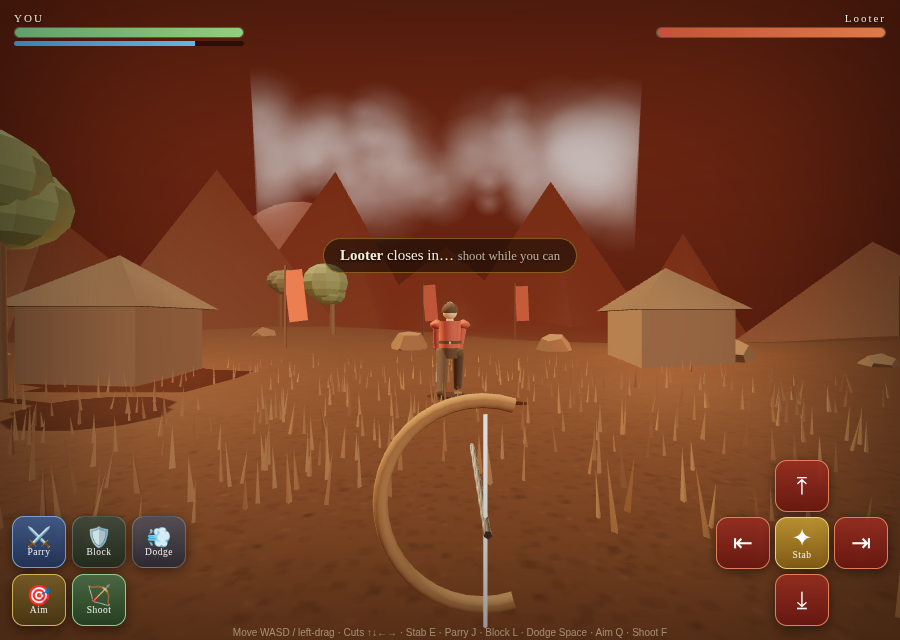
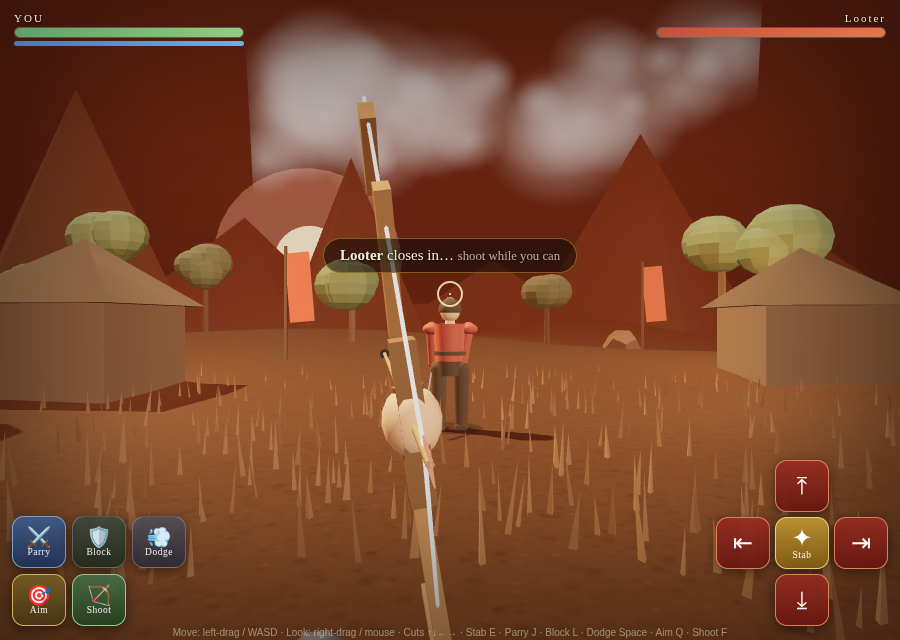
Warrior 3D: proper first-person bow + look controls; serialize Pages deploy
- BOW rebuilt as a real first-person archery view: a vertical bow held
  out in the (bladed) left hand, limbs curving forward, string + fletched
  arrow drawn back to the eye and sighted down the shaft at the target —
  instead of the small flat arc. Draws on Aim, looses on Shoot.
- LOOK controls restored and split from movement: LEFT half of the screen
  (or WASD) moves; RIGHT half drag (or mouse) changes your view direction,
  easing back toward your foe so you keep them framed. Answers 'how do you
  change direction of view'.
- CI: switch the Pages concurrency to cancel-in-progress:false so deploys
  QUEUE instead of colliding. Cancelling an in-flight deploy left GitHub's
  server-side deployment 'in progress' and made the next run 400; the last
  two deploys failed for exactly this reason. Serializing fixes it.

Browser smoke: move, aim(bow-draw)+reticle, right-drag look, and the full
attack set all drive to a clean finish with 0 JS errors.

diff --git a/dist/artifact.html b/dist/artifact.html
@@ -5251,7 +5251,7 @@ WARRIOR3D.startFight = function (opts) {
             <button class="w3-b down" data-a="cut_down" title="Rising cut">⤓</button>
           </div>
         </div>
-        <div class="w3-hint">Move WASD / left-drag · Cuts ↑↓←→ · Stab E · Parry J · Block L · Dodge Space · Aim Q · Shoot F</div>
+        <div class="w3-hint">Move: left-drag / WASD · Look: right-drag / mouse · Cuts ↑↓←→ · Stab E · Parry J · Block L · Dodge Space · Aim Q · Shoot F</div>
       </div>
     </div>`;
 
@@ -5562,16 +5562,36 @@ WARRIOR3D._viewmodel = function (player) {
   kg.position.set(0.26, -0.34, -0.72); kg.rotation.set(-0.78, 0.34, -0.12); g.add(kg);
   const arm = new THREE.Mesh(new THREE.CylinderGeometry(0.055, 0.065, 0.46, 8), cloth); arm.position.set(0.42, -0.66, -0.4); arm.rotation.set(-0.95, -0.25, 0.2); g.add(arm);
 
-  // bow (hidden until aim/shoot) — compact, held lower-centre
+  // bow (hidden until aim/shoot) — a proper vertical bow held out in the
+  // left hand, body bladed to the target; string+arrow drawn back to the eye.
   const bg = new THREE.Group();
-  const bow = new THREE.Mesh(new THREE.TorusGeometry(0.19, 0.014, 8, 24, Math.PI * 1.2), new THREE.MeshStandardMaterial({ color: 0x5a3a1e, roughness: 0.8 }));
-  bow.rotation.z = Math.PI * 0.4; bg.add(bow);
-  const strG = new THREE.Group(); bg.add(strG);
-  const str = new THREE.Mesh(new THREE.CylinderGeometry(0.0035, 0.0035, 0.36, 4), new THREE.MeshBasicMaterial({ color: 0xddddcc })); strG.add(str);
-  const nock = new THREE.Mesh(new THREE.CylinderGeometry(0.007, 0.007, 0.5, 5), steel); nock.rotation.x = Math.PI / 2; nock.position.z = -0.2; strG.add(nock);
-  bg.position.set(0.06, -0.34, -0.82); bg.visible = false; g.add(bg);
+  const bwood = new THREE.MeshStandardMaterial({ color: 0x6a4423, roughness: 0.7 });
+  const bwood2 = new THREE.MeshStandardMaterial({ color: 0x452c17, roughness: 0.7 });
+  const strMat = new THREE.MeshBasicMaterial({ color: 0xe8e4d0 });
+  const riser = new THREE.Mesh(new THREE.BoxGeometry(0.05, 0.32, 0.08), bwood2); bg.add(riser);
+  const bgrip = new THREE.Mesh(new THREE.CylinderGeometry(0.032, 0.032, 0.14, 8), bwood2); bg.add(bgrip);
+  // limbs curving forward, top & bottom
+  [[1, 0.3, 0.5, 0.34], [1, 0.56, 0.95, 0.22], [-1, 0.3, -0.5, 0.34], [-1, 0.56, -0.95, 0.22]].forEach(([s, y, rx, len]) => {
+    const lb = new THREE.Mesh(new THREE.BoxGeometry(0.032, len, 0.05), bwood);
+    lb.position.set(0, s * y, -0.06 - (Math.abs(rx) > 0.6 ? 0.14 : 0)); lb.rotation.x = rx; bg.add(lb);
+  });
+  const bhand = new THREE.Mesh(new THREE.SphereGeometry(0.06, 10, 8), skin); bhand.scale.set(1, 1.2, 1); bg.add(bhand);
+  // draw group: string + nocked arrow (slides back toward the eye when drawn)
+  const draw = new THREE.Group(); bg.add(draw);
+  const strand = (ax, ay, az) => { const a = new THREE.Vector3(ax, ay, az), b = new THREE.Vector3(0, 0, 0);
+    const m = new THREE.Mesh(new THREE.CylinderGeometry(0.004, 0.004, a.distanceTo(b), 4), strMat);
+    m.position.copy(a.clone().add(b).multiplyScalar(0.5)); m.lookAt(b); m.rotateX(Math.PI / 2); return m; };
+  draw.add(strand(0, 0.66, -0.34)); draw.add(strand(0, -0.66, -0.34));
+  const arrow = new THREE.Mesh(new THREE.CylinderGeometry(0.0075, 0.0075, 1.4, 5), new THREE.MeshStandardMaterial({ color: 0x7a5a2e, roughness: 0.8 }));
+  arrow.rotation.x = Math.PI / 2; arrow.position.set(0, 0, -0.62); draw.add(arrow);
+  const head = new THREE.Mesh(new THREE.ConeGeometry(0.02, 0.07, 6), steel); head.rotation.x = -Math.PI / 2; head.position.set(0, 0, -1.34); draw.add(head);
+  const fletch = new THREE.Mesh(new THREE.BoxGeometry(0.002, 0.055, 0.09), new THREE.MeshBasicMaterial({ color: 0xb43a2a })); fletch.position.set(0, 0, 0.06); draw.add(fletch);
+  // bow-arm reaching up from lower-left to the grip (suggests the bladed body)
+  const barm = new THREE.Mesh(new THREE.CylinderGeometry(0.05, 0.062, 0.62, 8), cloth); barm.position.set(-0.3, -0.52, 0.3); barm.rotation.set(-1.05, 0.35, -0.25); bg.add(barm);
+  bg.position.set(-0.06, -0.16, -0.92); bg.rotation.set(0.06, 0.16, 0.13); bg.scale.setScalar(0.82);
+  bg.visible = false; g.add(bg);
 
-  g.userData = { katana: kg, bow: bg, bowString: strG, arm, rest: { pos: kg.position.clone(), rot: kg.rotation.clone() } };
+  g.userData = { katana: kg, bow: bg, bowDraw: draw, arm, rest: { pos: kg.position.clone(), rot: kg.rotation.clone() } };
   return g;
 };
 
@@ -5795,8 +5815,9 @@ WARRIOR3D._updateViewmodel = function (E, dt) {
   const set = (px, py, pz, rx, ry, rz) => { kg.position.set(px, py, pz); kg.rotation.set(rx, ry, rz); };
 
   if (showBow) {
-    if (E.vmClip === "aim") { V.bowString.position.z = THREE.MathUtils.lerp(V.bowString.position.z, 0.16, dt * 10); }
-    else { const t = Math.min(1, E.vmT / 0.2); V.bowString.position.z = THREE.MathUtils.lerp(0.16, 0, t); if (t >= 1) WARRIOR3D._vm(E, E.aiming ? "aim" : "idle"); }
+    const d = V.bowDraw;
+    if (E.vmClip === "aim") { d.position.z = THREE.MathUtils.lerp(d.position.z, 0.24, dt * 9); }   // draw the string back
+    else { const t = Math.min(1, E.vmT / 0.16); d.position.z = THREE.MathUtils.lerp(0.24, 0, t); if (t >= 1) WARRIOR3D._vm(E, E.aiming ? "aim" : "idle"); }  // loose
     return;
   }
   const sw = WARRIOR3D.SWING[E.vmClip];
@@ -5884,20 +5905,30 @@ WARRIOR3D._prompt = function (E, html, cls) { const el = document.getElementById
 
 WARRIOR3D._bindControls = function (E) {
   const cv = E.renderer.domElement;
+  // Left half of the screen = MOVE stick; right half = LOOK (change view).
   const joyEl = document.getElementById("w3-joy"), knob = joyEl && joyEl.querySelector(".w3-joy-knob");
-  const R = 56;
-  const jStart = (x, y, id) => { E.joy.active = true; E.joy.id = id; E.joy.ox = x; E.joy.oy = y; E.joy.x = 0; E.joy.y = 0;
+  const R = 56, halfW = () => (E.mount.clientWidth || window.innerWidth) * 0.5;
+  const look = E.look = { active: false, id: null, lx: 0, ly: 0 };
+  const startMove = (x, y, id) => { E.joy.active = true; E.joy.id = id; E.joy.ox = x; E.joy.oy = y; E.joy.x = 0; E.joy.y = 0;
     if (joyEl) { joyEl.style.left = x + "px"; joyEl.style.top = y + "px"; joyEl.classList.add("on"); if (knob) knob.style.transform = "translate(-50%,-50%)"; } };
-  const jMove = (x, y) => { if (!E.joy.active) return; let dx = x - E.joy.ox, dy = y - E.joy.oy;
-    const d = Math.hypot(dx, dy); if (d > R) { dx *= R / d; dy *= R / d; }
+  const doMove = (x, y) => { let dx = x - E.joy.ox, dy = y - E.joy.oy; const d = Math.hypot(dx, dy); if (d > R) { dx *= R / d; dy *= R / d; }
     E.joy.x = dx / R; E.joy.y = -dy / R; if (knob) knob.style.transform = `translate(calc(-50% + ${dx}px), calc(-50% + ${dy}px))`; };
-  const jEnd = () => { E.joy.active = false; E.joy.x = 0; E.joy.y = 0; if (joyEl) joyEl.classList.remove("on"); };
-  cv.addEventListener("mousedown", e => jStart(e.clientX, e.clientY, "m"));
-  window.addEventListener("mousemove", e => jMove(e.clientX, e.clientY));
-  window.addEventListener("mouseup", jEnd);
-  cv.addEventListener("touchstart", e => { const t = e.changedTouches[0]; jStart(t.clientX, t.clientY, t.identifier); }, { passive: true });
-  cv.addEventListener("touchmove", e => { for (const t of e.changedTouches) if (t.identifier === E.joy.id) jMove(t.clientX, t.clientY); }, { passive: true });
-  cv.addEventListener("touchend", e => { for (const t of e.changedTouches) if (t.identifier === E.joy.id) jEnd(); }, { passive: true });
+  const endMove = () => { E.joy.active = false; E.joy.x = 0; E.joy.y = 0; if (joyEl) joyEl.classList.remove("on"); };
+  const start = (x, y, id) => { if (x < halfW()) startMove(x, y, id); else { look.active = true; look.id = id; look.lx = x; look.ly = y; } };
+  const moveTo = (x, y, id) => {
+    if (E.joy.active && E.joy.id === id) doMove(x, y);
+    else if (look.active && look.id === id) {
+      E.yawTarget = THREE.MathUtils.clamp(E.yawTarget + (x - look.lx) * -0.006, -1.4, 1.4);
+      E.pitchTarget = THREE.MathUtils.clamp(E.pitchTarget + (y - look.ly) * -0.005, -0.5, 0.5);
+      look.lx = x; look.ly = y;
+    } };
+  const end = (id) => { if (E.joy.id === id) endMove(); if (look.id === id) look.active = false; };
+  cv.addEventListener("mousedown", e => start(e.clientX, e.clientY, "m"));
+  window.addEventListener("mousemove", e => moveTo(e.clientX, e.clientY, "m"));
+  window.addEventListener("mouseup", () => end("m"));
+  cv.addEventListener("touchstart", e => { for (const t of e.changedTouches) start(t.clientX, t.clientY, t.identifier); }, { passive: true });
+  cv.addEventListener("touchmove", e => { for (const t of e.changedTouches) moveTo(t.clientX, t.clientY, t.identifier); }, { passive: true });
+  cv.addEventListener("touchend", e => { for (const t of e.changedTouches) end(t.identifier); }, { passive: true });
 
   document.querySelectorAll("#warrior-screen .w3-b").forEach(b => {
     const action = b.dataset.a, hold = b.dataset.hold;

diff --git a/dist/shogun.html b/dist/shogun.html
@@ -5259,7 +5259,7 @@ WARRIOR3D.startFight = function (opts) {
             <button class="w3-b down" data-a="cut_down" title="Rising cut">⤓</button>
           </div>
         </div>
-        <div class="w3-hint">Move WASD / left-drag · Cuts ↑↓←→ · Stab E · Parry J · Block L · Dodge Space · Aim Q · Shoot F</div>
+        <div class="w3-hint">Move: left-drag / WASD · Look: right-drag / mouse · Cuts ↑↓←→ · Stab E · Parry J · Block L · Dodge Space · Aim Q · Shoot F</div>
       </div>
     </div>`;
 
@@ -5570,16 +5570,36 @@ WARRIOR3D._viewmodel = function (player) {
   kg.position.set(0.26, -0.34, -0.72); kg.rotation.set(-0.78, 0.34, -0.12); g.add(kg);
   const arm = new THREE.Mesh(new THREE.CylinderGeometry(0.055, 0.065, 0.46, 8), cloth); arm.position.set(0.42, -0.66, -0.4); arm.rotation.set(-0.95, -0.25, 0.2); g.add(arm);
 
-  // bow (hidden until aim/shoot) — compact, held lower-centre
+  // bow (hidden until aim/shoot) — a proper vertical bow held out in the
+  // left hand, body bladed to the target; string+arrow drawn back to the eye.
   const bg = new THREE.Group();
-  const bow = new THREE.Mesh(new THREE.TorusGeometry(0.19, 0.014, 8, 24, Math.PI * 1.2), new THREE.MeshStandardMaterial({ color: 0x5a3a1e, roughness: 0.8 }));
-  bow.rotation.z = Math.PI * 0.4; bg.add(bow);
-  const strG = new THREE.Group(); bg.add(strG);
-  const str = new THREE.Mesh(new THREE.CylinderGeometry(0.0035, 0.0035, 0.36, 4), new THREE.MeshBasicMaterial({ color: 0xddddcc })); strG.add(str);
-  const nock = new THREE.Mesh(new THREE.CylinderGeometry(0.007, 0.007, 0.5, 5), steel); nock.rotation.x = Math.PI / 2; nock.position.z = -0.2; strG.add(nock);
-  bg.position.set(0.06, -0.34, -0.82); bg.visible = false; g.add(bg);
+  const bwood = new THREE.MeshStandardMaterial({ color: 0x6a4423, roughness: 0.7 });
+  const bwood2 = new THREE.MeshStandardMaterial({ color: 0x452c17, roughness: 0.7 });
+  const strMat = new THREE.MeshBasicMaterial({ color: 0xe8e4d0 });
+  const riser = new THREE.Mesh(new THREE.BoxGeometry(0.05, 0.32, 0.08), bwood2); bg.add(riser);
+  const bgrip = new THREE.Mesh(new THREE.CylinderGeometry(0.032, 0.032, 0.14, 8), bwood2); bg.add(bgrip);
+  // limbs curving forward, top & bottom
+  [[1, 0.3, 0.5, 0.34], [1, 0.56, 0.95, 0.22], [-1, 0.3, -0.5, 0.34], [-1, 0.56, -0.95, 0.22]].forEach(([s, y, rx, len]) => {
+    const lb = new THREE.Mesh(new THREE.BoxGeometry(0.032, len, 0.05), bwood);
+    lb.position.set(0, s * y, -0.06 - (Math.abs(rx) > 0.6 ? 0.14 : 0)); lb.rotation.x = rx; bg.add(lb);
+  });
+  const bhand = new THREE.Mesh(new THREE.SphereGeometry(0.06, 10, 8), skin); bhand.scale.set(1, 1.2, 1); bg.add(bhand);
+  // draw group: string + nocked arrow (slides back toward the eye when drawn)
+  const draw = new THREE.Group(); bg.add(draw);
+  const strand = (ax, ay, az) => { const a = new THREE.Vector3(ax, ay, az), b = new THREE.Vector3(0, 0, 0);
+    const m = new THREE.Mesh(new THREE.CylinderGeometry(0.004, 0.004, a.distanceTo(b), 4), strMat);
+    m.position.copy(a.clone().add(b).multiplyScalar(0.5)); m.lookAt(b); m.rotateX(Math.PI / 2); return m; };
+  draw.add(strand(0, 0.66, -0.34)); draw.add(strand(0, -0.66, -0.34));
+  const arrow = new THREE.Mesh(new THREE.CylinderGeometry(0.0075, 0.0075, 1.4, 5), new THREE.MeshStandardMaterial({ color: 0x7a5a2e, roughness: 0.8 }));
+  arrow.rotation.x = Math.PI / 2; arrow.position.set(0, 0, -0.62); draw.add(arrow);
+  const head = new THREE.Mesh(new THREE.ConeGeometry(0.02, 0.07, 6), steel); head.rotation.x = -Math.PI / 2; head.position.set(0, 0, -1.34); draw.add(head);
+  const fletch = new THREE.Mesh(new THREE.BoxGeometry(0.002, 0.055, 0.09), new THREE.MeshBasicMaterial({ color: 0xb43a2a })); fletch.position.set(0, 0, 0.06); draw.add(fletch);
+  // bow-arm reaching up from lower-left to the grip (suggests the bladed body)
+  const barm = new THREE.Mesh(new THREE.CylinderGeometry(0.05, 0.062, 0.62, 8), cloth); barm.position.set(-0.3, -0.52, 0.3); barm.rotation.set(-1.05, 0.35, -0.25); bg.add(barm);
+  bg.position.set(-0.06, -0.16, -0.92); bg.rotation.set(0.06, 0.16, 0.13); bg.scale.setScalar(0.82);
+  bg.visible = false; g.add(bg);
 
-  g.userData = { katana: kg, bow: bg, bowString: strG, arm, rest: { pos: kg.position.clone(), rot: kg.rotation.clone() } };
+  g.userData = { katana: kg, bow: bg, bowDraw: draw, arm, rest: { pos: kg.position.clone(), rot: kg.rotation.clone() } };
   return g;
 };
 
@@ -5803,8 +5823,9 @@ WARRIOR3D._updateViewmodel = function (E, dt) {
   const set = (px, py, pz, rx, ry, rz) => { kg.position.set(px, py, pz); kg.rotation.set(rx, ry, rz); };
 
   if (showBow) {
-    if (E.vmClip === "aim") { V.bowString.position.z = THREE.MathUtils.lerp(V.bowString.position.z, 0.16, dt * 10); }
-    else { const t = Math.min(1, E.vmT / 0.2); V.bowString.position.z = THREE.MathUtils.lerp(0.16, 0, t); if (t >= 1) WARRIOR3D._vm(E, E.aiming ? "aim" : "idle"); }
+    const d = V.bowDraw;
+    if (E.vmClip === "aim") { d.position.z = THREE.MathUtils.lerp(d.position.z, 0.24, dt * 9); }   // draw the string back
+    else { const t = Math.min(1, E.vmT / 0.16); d.position.z = THREE.MathUtils.lerp(0.24, 0, t); if (t >= 1) WARRIOR3D._vm(E, E.aiming ? "aim" : "idle"); }  // loose
     return;
   }
   const sw = WARRIOR3D.SWING[E.vmClip];
@@ -5892,20 +5913,30 @@ WARRIOR3D._prompt = function (E, html, cls) { const el = document.getElementById
 
 WARRIOR3D._bindControls = function (E) {
   const cv = E.renderer.domElement;
+  // Left half of the screen = MOVE stick; right half = LOOK (change view).
   const joyEl = document.getElementById("w3-joy"), knob = joyEl && joyEl.querySelector(".w3-joy-knob");
-  const R = 56;
-  const jStart = (x, y, id) => { E.joy.active = true; E.joy.id = id; E.joy.ox = x; E.joy.oy = y; E.joy.x = 0; E.joy.y = 0;
+  const R = 56, halfW = () => (E.mount.clientWidth || window.innerWidth) * 0.5;
+  const look = E.look = { active: false, id: null, lx: 0, ly: 0 };
+  const startMove = (x, y, id) => { E.joy.active = true; E.joy.id = id; E.joy.ox = x; E.joy.oy = y; E.joy.x = 0; E.joy.y = 0;
     if (joyEl) { joyEl.style.left = x + "px"; joyEl.style.top = y + "px"; joyEl.classList.add("on"); if (knob) knob.style.transform = "translate(-50%,-50%)"; } };
-  const jMove = (x, y) => { if (!E.joy.active) return; let dx = x - E.joy.ox, dy = y - E.joy.oy;
-    const d = Math.hypot(dx, dy); if (d > R) { dx *= R / d; dy *= R / d; }
+  const doMove = (x, y) => { let dx = x - E.joy.ox, dy = y - E.joy.oy; const d = Math.hypot(dx, dy); if (d > R) { dx *= R / d; dy *= R / d; }
     E.joy.x = dx / R; E.joy.y = -dy / R; if (knob) knob.style.transform = `translate(calc(-50% + ${dx}px), calc(-50% + ${dy}px))`; };
-  const jEnd = () => { E.joy.active = false; E.joy.x = 0; E.joy.y = 0; if (joyEl) joyEl.classList.remove("on"); };
-  cv.addEventListener("mousedown", e => jStart(e.clientX, e.clientY, "m"));
-  window.addEventListener("mousemove", e => jMove(e.clientX, e.clientY));
-  window.addEventListener("mouseup", jEnd);
-  cv.addEventListener("touchstart", e => { const t = e.changedTouches[0]; jStart(t.clientX, t.clientY, t.identifier); }, { passive: true });
-  cv.addEventListener("touchmove", e => { for (const t of e.changedTouches) if (t.identifier === E.joy.id) jMove(t.clientX, t.clientY); }, { passive: true });
-  cv.addEventListener("touchend", e => { for (const t of e.changedTouches) if (t.identifier === E.joy.id) jEnd(); }, { passive: true });
+  const endMove = () => { E.joy.active = false; E.joy.x = 0; E.joy.y = 0; if (joyEl) joyEl.classList.remove("on"); };
+  const start = (x, y, id) => { if (x < halfW()) startMove(x, y, id); else { look.active = true; look.id = id; look.lx = x; look.ly = y; } };
+  const moveTo = (x, y, id) => {
+    if (E.joy.active && E.joy.id === id) doMove(x, y);
+    else if (look.active && look.id === id) {
+      E.yawTarget = THREE.MathUtils.clamp(E.yawTarget + (x - look.lx) * -0.006, -1.4, 1.4);
+      E.pitchTarget = THREE.MathUtils.clamp(E.pitchTarget + (y - look.ly) * -0.005, -0.5, 0.5);
+      look.lx = x; look.ly = y;
+    } };
+  const end = (id) => { if (E.joy.id === id) endMove(); if (look.id === id) look.active = false; };
+  cv.addEventListener("mousedown", e => start(e.clientX, e.clientY, "m"));
+  window.addEventListener("mousemove", e => moveTo(e.clientX, e.clientY, "m"));
+  window.addEventListener("mouseup", () => end("m"));
+  cv.addEventListener("touchstart", e => { for (const t of e.changedTouches) start(t.clientX, t.clientY, t.identifier); }, { passive: true });
+  cv.addEventListener("touchmove", e => { for (const t of e.changedTouches) moveTo(t.clientX, t.clientY, t.identifier); }, { passive: true });
+  cv.addEventListener("touchend", e => { for (const t of e.changedTouches) end(t.identifier); }, { passive: true });
 
   document.querySelectorAll("#warrior-screen .w3-b").forEach(b => {
     const action = b.dataset.a, hold = b.dataset.hold;

diff --git a/js/warrior3d.js b/js/warrior3d.js
@@ -89,7 +89,7 @@ WARRIOR3D.startFight = function (opts) {
             <button class="w3-b down" data-a="cut_down" title="Rising cut">⤓</button>
           </div>
         </div>
-        <div class="w3-hint">Move WASD / left-drag · Cuts ↑↓←→ · Stab E · Parry J · Block L · Dodge Space · Aim Q · Shoot F</div>
+        <div class="w3-hint">Move: left-drag / WASD · Look: right-drag / mouse · Cuts ↑↓←→ · Stab E · Parry J · Block L · Dodge Space · Aim Q · Shoot F</div>
       </div>
     </div>`;
 
@@ -400,16 +400,36 @@ WARRIOR3D._viewmodel = function (player) {
   kg.position.set(0.26, -0.34, -0.72); kg.rotation.set(-0.78, 0.34, -0.12); g.add(kg);
   const arm = new THREE.Mesh(new THREE.CylinderGeometry(0.055, 0.065, 0.46, 8), cloth); arm.position.set(0.42, -0.66, -0.4); arm.rotation.set(-0.95, -0.25, 0.2); g.add(arm);
 
-  // bow (hidden until aim/shoot) — compact, held lower-centre
+  // bow (hidden until aim/shoot) — a proper vertical bow held out in the
+  // left hand, body bladed to the target; string+arrow drawn back to the eye.
   const bg = new THREE.Group();
-  const bow = new THREE.Mesh(new THREE.TorusGeometry(0.19, 0.014, 8, 24, Math.PI * 1.2), new THREE.MeshStandardMaterial({ color: 0x5a3a1e, roughness: 0.8 }));
-  bow.rotation.z = Math.PI * 0.4; bg.add(bow);
-  const strG = new THREE.Group(); bg.add(strG);
-  const str = new THREE.Mesh(new THREE.CylinderGeometry(0.0035, 0.0035, 0.36, 4), new THREE.MeshBasicMaterial({ color: 0xddddcc })); strG.add(str);
-  const nock = new THREE.Mesh(new THREE.CylinderGeometry(0.007, 0.007, 0.5, 5), steel); nock.rotation.x = Math.PI / 2; nock.position.z = -0.2; strG.add(nock);
-  bg.position.set(0.06, -0.34, -0.82); bg.visible = false; g.add(bg);
+  const bwood = new THREE.MeshStandardMaterial({ color: 0x6a4423, roughness: 0.7 });
+  const bwood2 = new THREE.MeshStandardMaterial({ color: 0x452c17, roughness: 0.7 });
+  const strMat = new THREE.MeshBasicMaterial({ color: 0xe8e4d0 });
+  const riser = new THREE.Mesh(new THREE.BoxGeometry(0.05, 0.32, 0.08), bwood2); bg.add(riser);
+  const bgrip = new THREE.Mesh(new THREE.CylinderGeometry(0.032, 0.032, 0.14, 8), bwood2); bg.add(bgrip);
+  // limbs curving forward, top & bottom
+  [[1, 0.3, 0.5, 0.34], [1, 0.56, 0.95, 0.22], [-1, 0.3, -0.5, 0.34], [-1, 0.56, -0.95, 0.22]].forEach(([s, y, rx, len]) => {
+    const lb = new THREE.Mesh(new THREE.BoxGeometry(0.032, len, 0.05), bwood);
+    lb.position.set(0, s * y, -0.06 - (Math.abs(rx) > 0.6 ? 0.14 : 0)); lb.rotation.x = rx; bg.add(lb);
+  });
+  const bhand = new THREE.Mesh(new THREE.SphereGeometry(0.06, 10, 8), skin); bhand.scale.set(1, 1.2, 1); bg.add(bhand);
+  // draw group: string + nocked arrow (slides back toward the eye when drawn)
+  const draw = new THREE.Group(); bg.add(draw);
+  const strand = (ax, ay, az) => { const a = new THREE.Vector3(ax, ay, az), b = new THREE.Vector3(0, 0, 0);
+    const m = new THREE.Mesh(new THREE.CylinderGeometry(0.004, 0.004, a.distanceTo(b), 4), strMat);
+    m.position.copy(a.clone().add(b).multiplyScalar(0.5)); m.lookAt(b); m.rotateX(Math.PI / 2); return m; };
+  draw.add(strand(0, 0.66, -0.34)); draw.add(strand(0, -0.66, -0.34));
+  const arrow = new THREE.Mesh(new THREE.CylinderGeometry(0.0075, 0.0075, 1.4, 5), new THREE.MeshStandardMaterial({ color: 0x7a5a2e, roughness: 0.8 }));
+  arrow.rotation.x = Math.PI / 2; arrow.position.set(0, 0, -0.62); draw.add(arrow);
+  const head = new THREE.Mesh(new THREE.ConeGeometry(0.02, 0.07, 6), steel); head.rotation.x = -Math.PI / 2; head.position.set(0, 0, -1.34); draw.add(head);
+  const fletch = new THREE.Mesh(new THREE.BoxGeometry(0.002, 0.055, 0.09), new THREE.MeshBasicMaterial({ color: 0xb43a2a })); fletch.position.set(0, 0, 0.06); draw.add(fletch);
+  // bow-arm reaching up from lower-left to the grip (suggests the bladed body)
+  const barm = new THREE.Mesh(new THREE.CylinderGeometry(0.05, 0.062, 0.62, 8), cloth); barm.position.set(-0.3, -0.52, 0.3); barm.rotation.set(-1.05, 0.35, -0.25); bg.add(barm);
+  bg.position.set(-0.06, -0.16, -0.92); bg.rotation.set(0.06, 0.16, 0.13); bg.scale.setScalar(0.82);
+  bg.visible = false; g.add(bg);
 
-  g.userData = { katana: kg, bow: bg, bowString: strG, arm, rest: { pos: kg.position.clone(), rot: kg.rotation.clone() } };
+  g.userData = { katana: kg, bow: bg, bowDraw: draw, arm, rest: { pos: kg.position.clone(), rot: kg.rotation.clone() } };
   return g;
 };
 
@@ -633,8 +653,9 @@ WARRIOR3D._updateViewmodel = function (E, dt) {
   const set = (px, py, pz, rx, ry, rz) => { kg.position.set(px, py, pz); kg.rotation.set(rx, ry, rz); };
 
   if (showBow) {
-    if (E.vmClip === "aim") { V.bowString.position.z = THREE.MathUtils.lerp(V.bowString.position.z, 0.16, dt * 10); }
-    else { const t = Math.min(1, E.vmT / 0.2); V.bowString.position.z = THREE.MathUtils.lerp(0.16, 0, t); if (t >= 1) WARRIOR3D._vm(E, E.aiming ? "aim" : "idle"); }
+    const d = V.bowDraw;
+    if (E.vmClip === "aim") { d.position.z = THREE.MathUtils.lerp(d.position.z, 0.24, dt * 9); }   // draw the string back
+    else { const t = Math.min(1, E.vmT / 0.16); d.position.z = THREE.MathUtils.lerp(0.24, 0, t); if (t >= 1) WARRIOR3D._vm(E, E.aiming ? "aim" : "idle"); }  // loose
     return;
   }
   const sw = WARRIOR3D.SWING[E.vmClip];
@@ -722,20 +743,30 @@ WARRIOR3D._prompt = function (E, html, cls) { const el = document.getElementById
 
 WARRIOR3D._bindControls = function (E) {
   const cv = E.renderer.domElement;
+  // Left half of the screen = MOVE stick; right half = LOOK (change view).
   const joyEl = document.getElementById("w3-joy"), knob = joyEl && joyEl.querySelector(".w3-joy-knob");
-  const R = 56;
-  const jStart = (x, y, id) => { E.joy.active = true; E.joy.id = id; E.joy.ox = x; E.joy.oy = y; E.joy.x = 0; E.joy.y = 0;
+  const R = 56, halfW = () => (E.mount.clientWidth || window.innerWidth) * 0.5;
+  const look = E.look = { active: false, id: null, lx: 0, ly: 0 };
+  const startMove = (x, y, id) => { E.joy.active = true; E.joy.id = id; E.joy.ox = x; E.joy.oy = y; E.joy.x = 0; E.joy.y = 0;
     if (joyEl) { joyEl.style.left = x + "px"; joyEl.style.top = y + "px"; joyEl.classList.add("on"); if (knob) knob.style.transform = "translate(-50%,-50%)"; } };
-  const jMove = (x, y) => { if (!E.joy.active) return; let dx = x - E.joy.ox, dy = y - E.joy.oy;
-    const d = Math.hypot(dx, dy); if (d > R) { dx *= R / d; dy *= R / d; }
+  const doMove = (x, y) => { let dx = x - E.joy.ox, dy = y - E.joy.oy; const d = Math.hypot(dx, dy); if (d > R) { dx *= R / d; dy *= R / d; }
     E.joy.x = dx / R; E.joy.y = -dy / R; if (knob) knob.style.transform = `translate(calc(-50% + ${dx}px), calc(-50% + ${dy}px))`; };
-  const jEnd = () => { E.joy.active = false; E.joy.x = 0; E.joy.y = 0; if (joyEl) joyEl.classList.remove("on"); };
-  cv.addEventListener("mousedown", e => jStart(e.clientX, e.clientY, "m"));
-  window.addEventListener("mousemove", e => jMove(e.clientX, e.clientY));
-  window.addEventListener("mouseup", jEnd);
-  cv.addEventListener("touchstart", e => { const t = e.changedTouches[0]; jStart(t.clientX, t.clientY, t.identifier); }, { passive: true });
-  cv.addEventListener("touchmove", e => { for (const t of e.changedTouches) if (t.identifier === E.joy.id) jMove(t.clientX, t.clientY); }, { passive: true });
-  cv.addEventListener("touchend", e => { for (const t of e.changedTouches) if (t.identifier === E.joy.id) jEnd(); }, { passive: true });
+  const endMove = () => { E.joy.active = false; E.joy.x = 0; E.joy.y = 0; if (joyEl) joyEl.classList.remove("on"); };
+  const start = (x, y, id) => { if (x < halfW()) startMove(x, y, id); else { look.active = true; look.id = id; look.lx = x; look.ly = y; } };
+  const moveTo = (x, y, id) => {
+    if (E.joy.active && E.joy.id === id) doMove(x, y);
+    else if (look.active && look.id === id) {
+      E.yawTarget = THREE.MathUtils.clamp(E.yawTarget + (x - look.lx) * -0.006, -1.4, 1.4);
+      E.pitchTarget = THREE.MathUtils.clamp(E.pitchTarget + (y - look.ly) * -0.005, -0.5, 0.5);
+      look.lx = x; look.ly = y;
+    } };
+  const end = (id) => { if (E.joy.id === id) endMove(); if (look.id === id) look.active = false; };
+  cv.addEventListener("mousedown", e => start(e.clientX, e.clientY, "m"));
+  window.addEventListener("mousemove", e => moveTo(e.clientX, e.clientY, "m"));
+  window.addEventListener("mouseup", () => end("m"));
+  cv.addEventListener("touchstart", e => { for (const t of e.changedTouches) start(t.clientX, t.clientY, t.identifier); }, { passive: true });
+  cv.addEventListener("touchmove", e => { for (const t of e.changedTouches) moveTo(t.clientX, t.clientY, t.identifier); }, { passive: true });
+  cv.addEventListener("touchend", e => { for (const t of e.changedTouches) end(t.identifier); }, { passive: true });
 
   document.querySelectorAll("#warrior-screen .w3-b").forEach(b => {
     const action = b.dataset.a, hold = b.dataset.hold;
